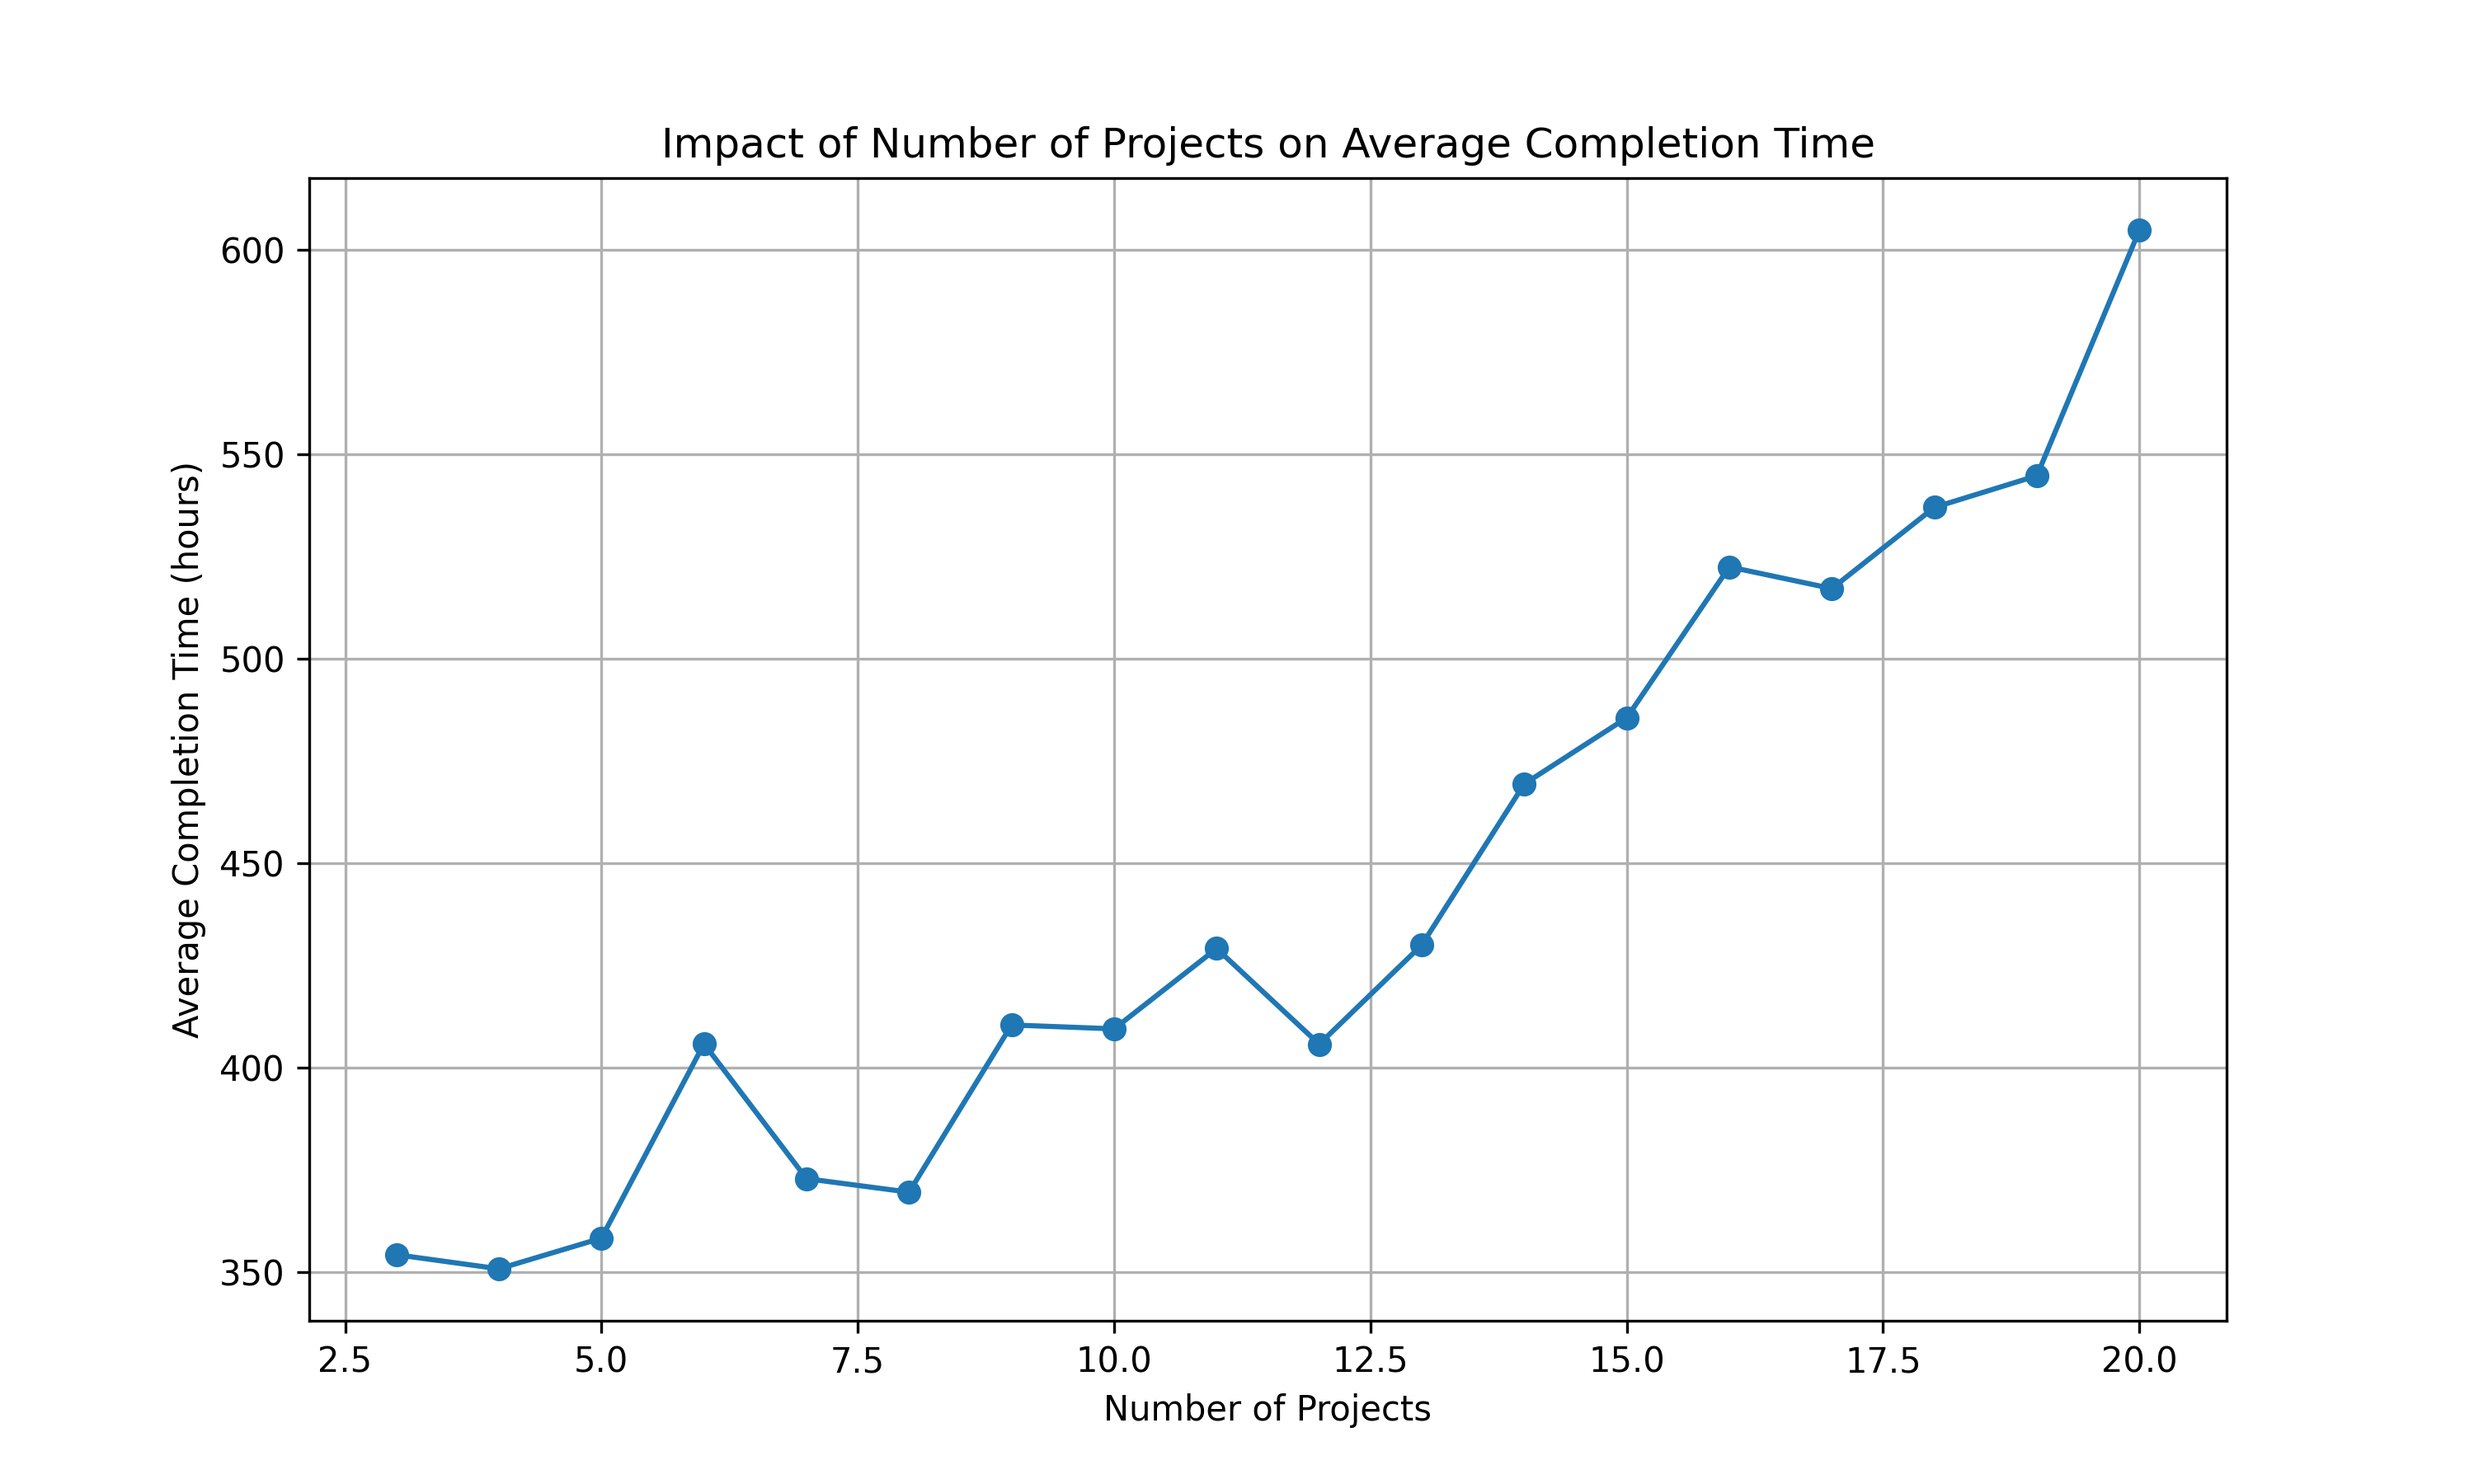
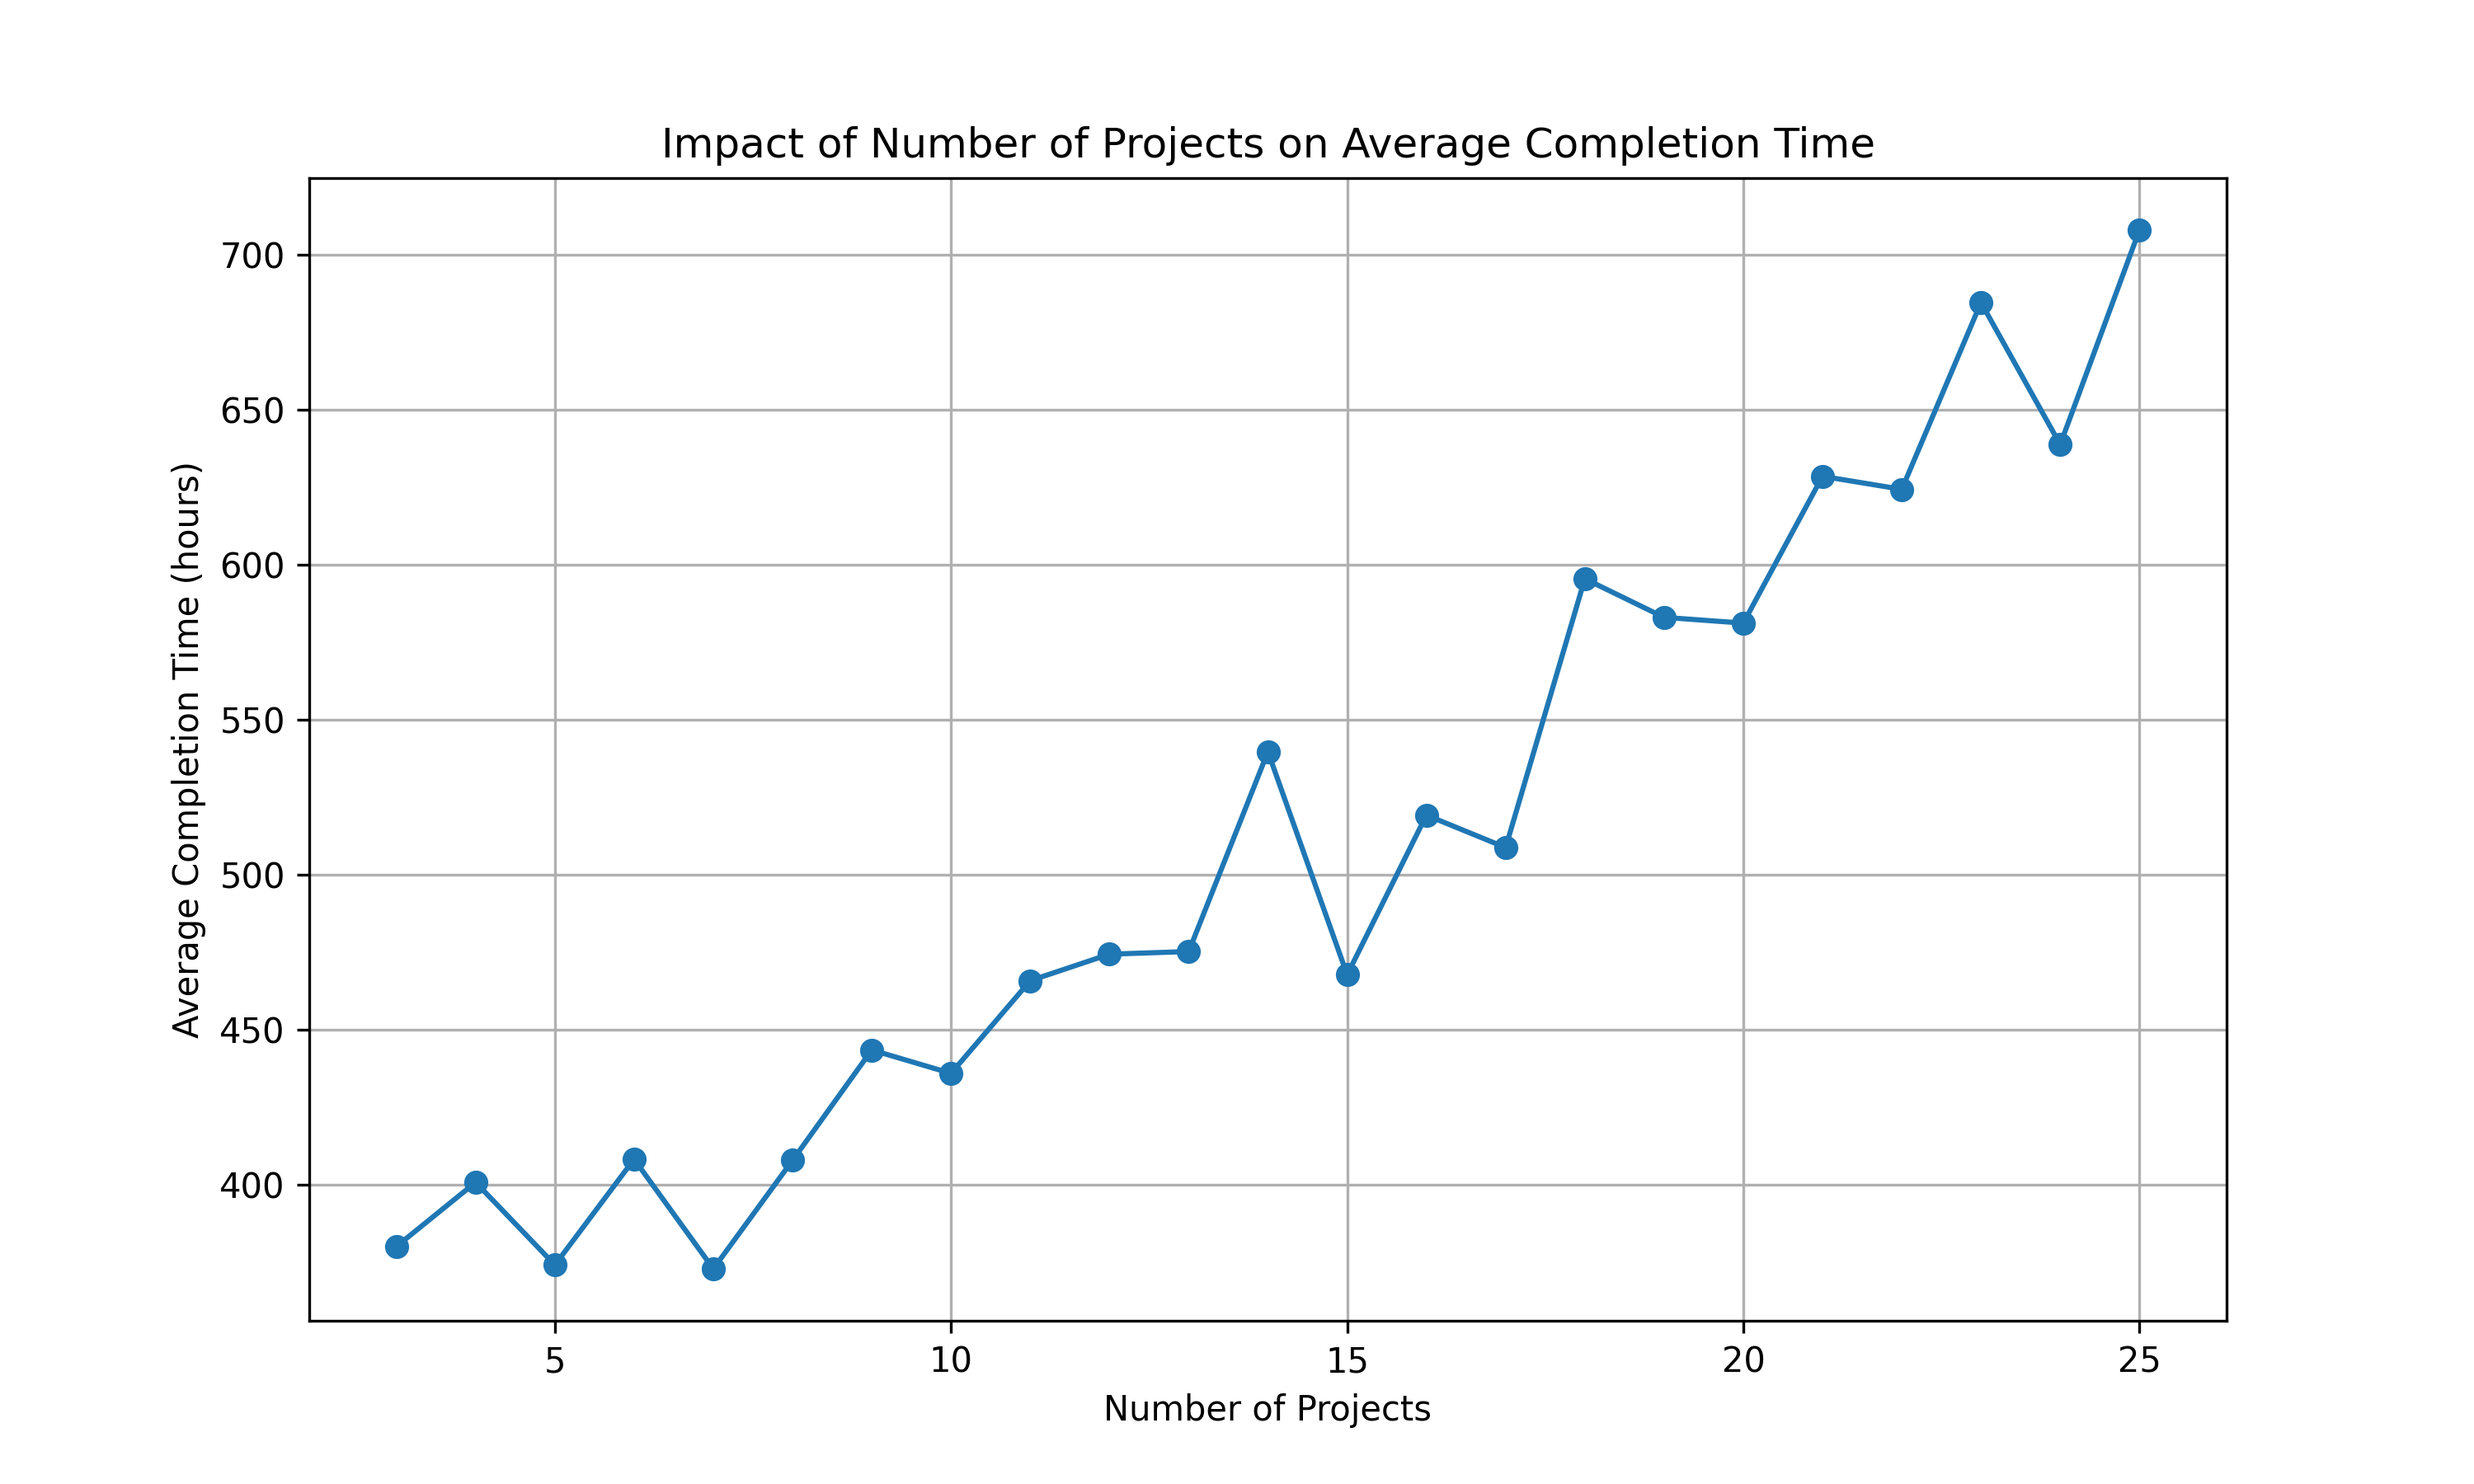
feat: Run simulation

diff --git a/run.py b/run.py
@@ -27,13 +27,16 @@ class Task:
         self.skill = skill
         self.completed = False
 
-# Generate tasks with dependencies and skills
+# Generate tasks with dependencies, skills, and staggered project start times
 
 
 def generate_tasks(num_projects, max_duration):
     tasks = []
+    project_start_times = {}
     task_id = 1
     for project_id in range(num_projects):
+        # Add a start delay for the project
+        project_start_times[project_id] = random.randint(0, 50)
         num_tasks = random.randint(
             MIN_TASKS_PER_PROJECT, MAX_TASKS_PER_PROJECT)
         project_tasks = []
@@ -53,7 +56,7 @@ def generate_tasks(num_projects, max_duration):
             project_tasks.append(task)
             tasks.append(task)
             task_id += 1
-    return tasks
+    return tasks, project_start_times
 
 # Check if all dependencies are completed
 
@@ -61,11 +64,11 @@ def generate_tasks(num_projects, max_duration):
 def are_dependencies_completed(task, task_map):
     return all(task_map[dep].completed for dep in task.dependencies)
 
-# Simulation function
+# Simulation function with staggered project starts
 
 
 def simulate_with_dependencies_and_overhead(num_team_members, num_projects, max_duration):
-    tasks = generate_tasks(num_projects, max_duration)
+    tasks, project_start_times = generate_tasks(num_projects, max_duration)
     task_map = {task.task_id: task for task in tasks}
     team_activity = {member: [] for member in range(num_team_members)}
     ongoing_tasks = {}
@@ -92,11 +95,13 @@ def simulate_with_dependencies_and_overhead(num_team_members, num_projects, max_
                     completed_task.completed = True
                     del ongoing_tasks[member]
 
-                # Assign new tasks that match the team member's skill and dependencies are completed
+                # Assign new tasks that match the team member's skill, dependencies, and project start time
                 available_tasks = [
                     task for task in task_queue
                     if TEAM_SKILLS[member % len(TEAM_SKILLS)] == task.skill
                     and are_dependencies_completed(task, task_map)
+                    # Check project start time
+                    and time_steps >= project_start_times[task.project_id]
                 ]
                 if available_tasks:
                     new_task = random.choice(available_tasks)
@@ -115,35 +120,36 @@ def simulate_with_dependencies_and_overhead(num_team_members, num_projects, max_
                 else:
                     team_activity[member].append((time_steps, None))
 
-    return team_activity, tasks, time_steps, context_switches
+    return team_activity, tasks, time_steps, context_switches, project_start_times
 
-# Gantt Chart with Context Switching Visualization
+# Generate a simulation report
 
 
-def visualize_gantt_chart_with_context_switching(team_activity, context_switches, time_steps, iteration, num_projects):
-    fig, ax = plt.subplots(figsize=(15, 8))
-    for member, activity in team_activity.items():
-        last_task_id = None
-        for start_time, task_id in activity:
-            if task_id is not None:
-                color = f"C{task_id % 10}"
-                if last_task_id is not None and task_id != last_task_id:
-                    color = "red"  # Highlight context switches in red
-                ax.barh(member, 1, left=start_time - 1,
-                        color=color, edgecolor="black")
-                last_task_id = task_id
-    ax.set_yticks(range(len(team_activity)))
-    ax.set_yticklabels([f"Team Member {m}" for m in range(len(team_activity))])
-    ax.set_xticks(range(0, time_steps + 1, 10))
-    ax.set_xlabel("Time Steps")
-    ax.set_ylabel("Team Members")
-    ax.set_title(f"Gantt Chart of Task Switches\nIteration {
-                 iteration} - {num_projects} Projects\nContext Switches Highlighted in Red")
-    plt.grid(axis="x", linestyle="--", alpha=0.7)
-    filename = f"gantt_chart_context_switching_iteration_{
-        iteration}_projects_{num_projects}.png"
-    plt.savefig(filename, dpi=300)
-    print(f"Gantt chart with context switching saved as {filename}")
+def generate_simulation_report(tasks, time_steps, num_projects, output_file="simulation_report.csv"):
+    report_data = []
+    for task in tasks:
+        report_data.append({
+            "Project ID": task.project_id,
+            "Task ID": task.task_id,
+            "Duration (hours)": task.duration,
+            "Required Skill": task.skill,
+            "Dependencies": ", ".join(map(str, task.dependencies)) if task.dependencies else "None",
+            "Completed": "Yes" if task.completed else "No"
+        })
+
+    # Convert to DataFrame for better presentation
+    df = pd.DataFrame(report_data)
+    df.to_csv(output_file, index=False)
+    print(f"\nSimulation Report saved to {output_file}")
+
+    print("\n--- Simulation Summary ---")
+    print(f"Total Projects: {num_projects}")
+    print(f"Total Tasks: {len(tasks)}")
+    print(f"Total Time Steps: {time_steps}")
+    print(f"Completed Tasks: {len(df[df['Completed'] == 'Yes'])}")
+    print(f"Incomplete Tasks: {len(df[df['Completed'] == 'No'])}")
+    print("\n--- Task Details ---")
+    print(df.to_string(index=False))
 
 # Visualization functions for results
 
@@ -160,7 +166,6 @@ def visualize_results_table_and_chart(results):
     plt.xlabel("Number of Projects")
     plt.ylabel("Average Completion Time (hours)")
     plt.grid(True)
-    # plt.show()
     plt.savefig("results.png", dpi=300)
 
 # Run simulation and analyze
@@ -170,30 +175,33 @@ def run_simulation_with_improvements(num_team_members, project_range, max_task_d
     results = {}
     for num_projects in project_range:
         total_time_steps = 0
+        tasks_report = None
+
         for iteration in range(iterations):
             print(f"\nIteration {iteration + 1} for {num_projects} projects:")
-            team_activity, _, time_steps, context_switches = simulate_with_dependencies_and_overhead(
+            team_activity, tasks, time_steps, context_switches, project_start_times = simulate_with_dependencies_and_overhead(
                 num_team_members=num_team_members,
                 num_projects=num_projects,
                 max_duration=max_task_duration,
             )
             total_time_steps += time_steps
-
-            if (num_projects == 10 and iteration == 1):
-                # Generate Gantt chart for each iteration with context switching
-                visualize_gantt_chart_with_context_switching(
-                    team_activity, context_switches, time_steps, iteration + 1, num_projects
-                )
+            if iteration == iterations - 1:
+                tasks_report = tasks
 
         average_time = total_time_steps / iterations
         results[num_projects] = average_time
         print(f"Projects: {num_projects}, Average Completion Time: {
               average_time:.2f} hours")
+
+        if num_projects == 8:
+            generate_simulation_report(
+                tasks_report, total_time_steps, num_projects)
+
     return results
 
 
 # Define the range of projects and run the simulation
-project_range = range(3, 21)
+project_range = range(3, 26)
 iterations = 20
 average_completion_times = run_simulation_with_improvements(
     num_team_members=NUM_TEAM_MEMBERS,
